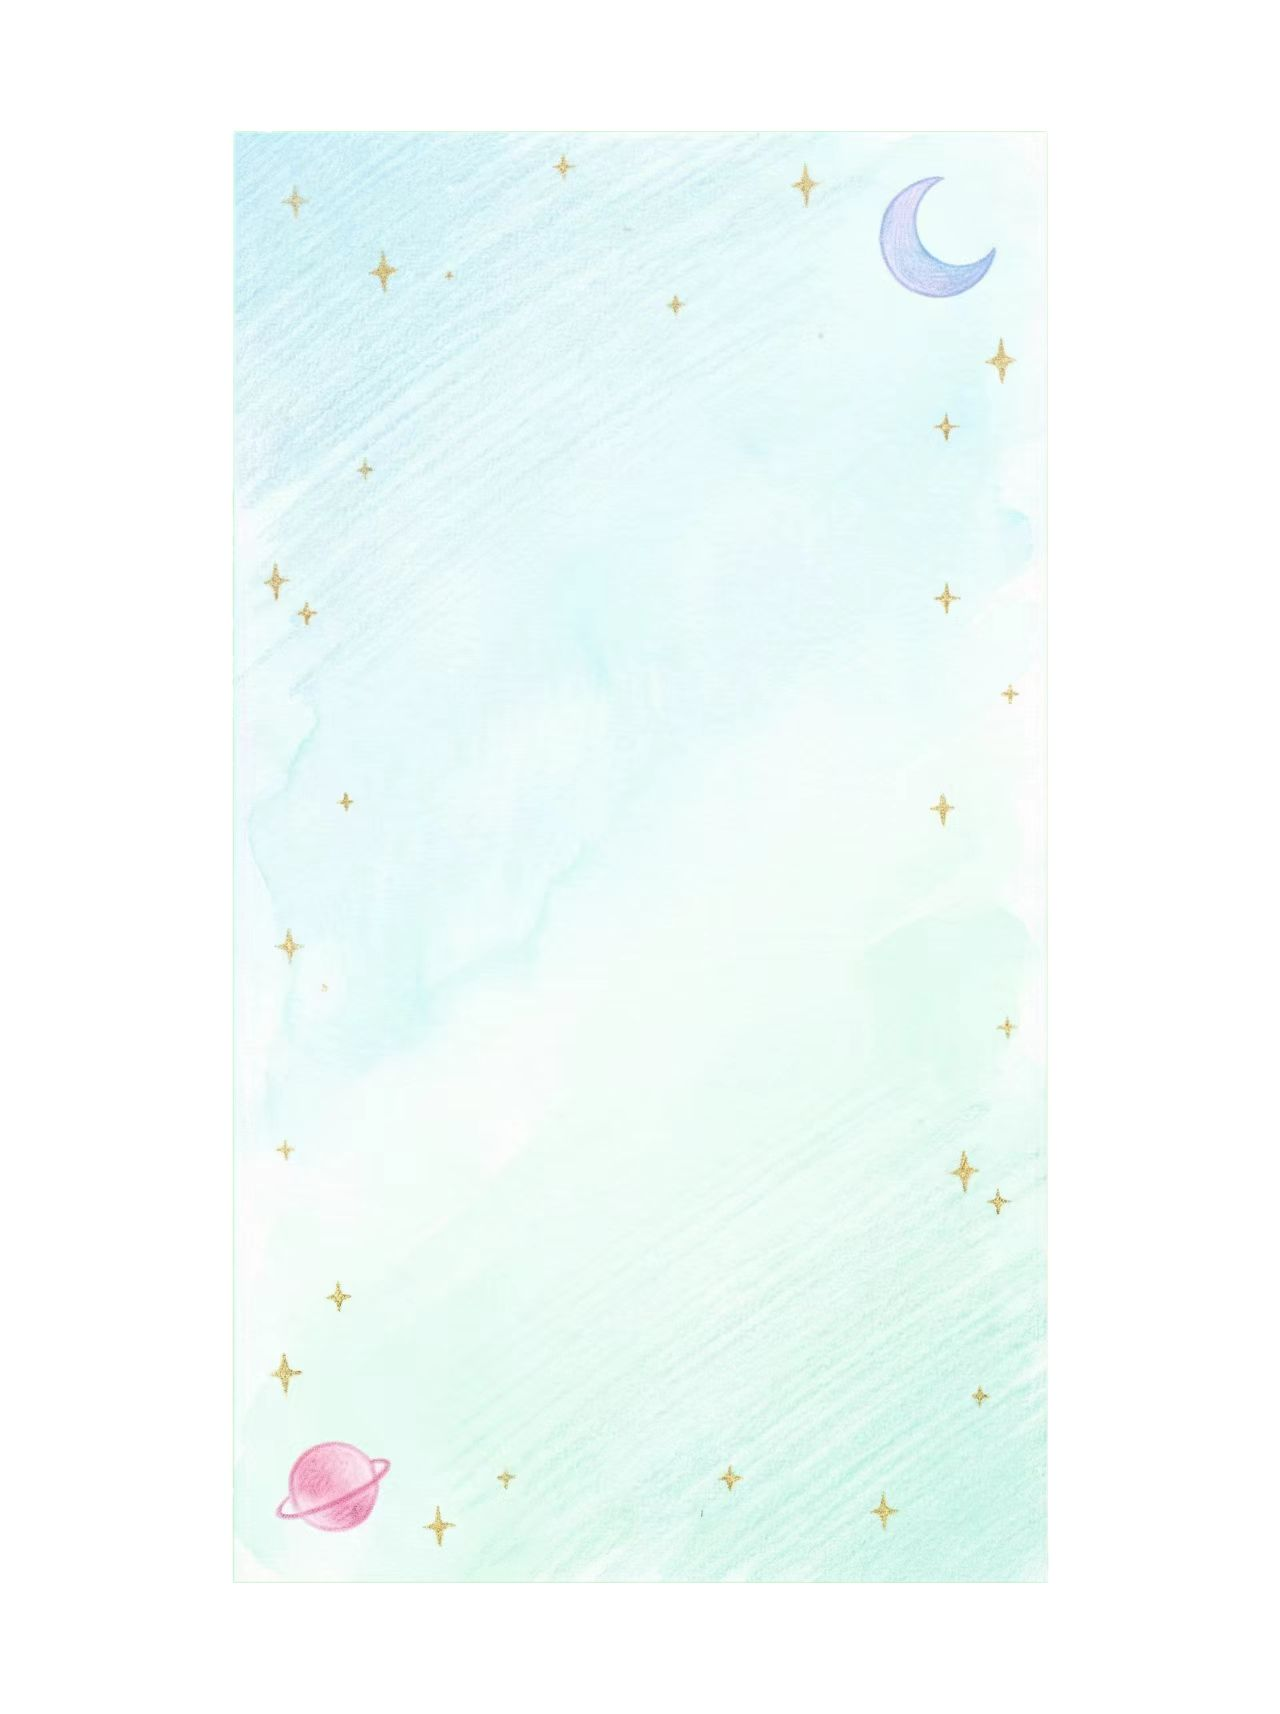
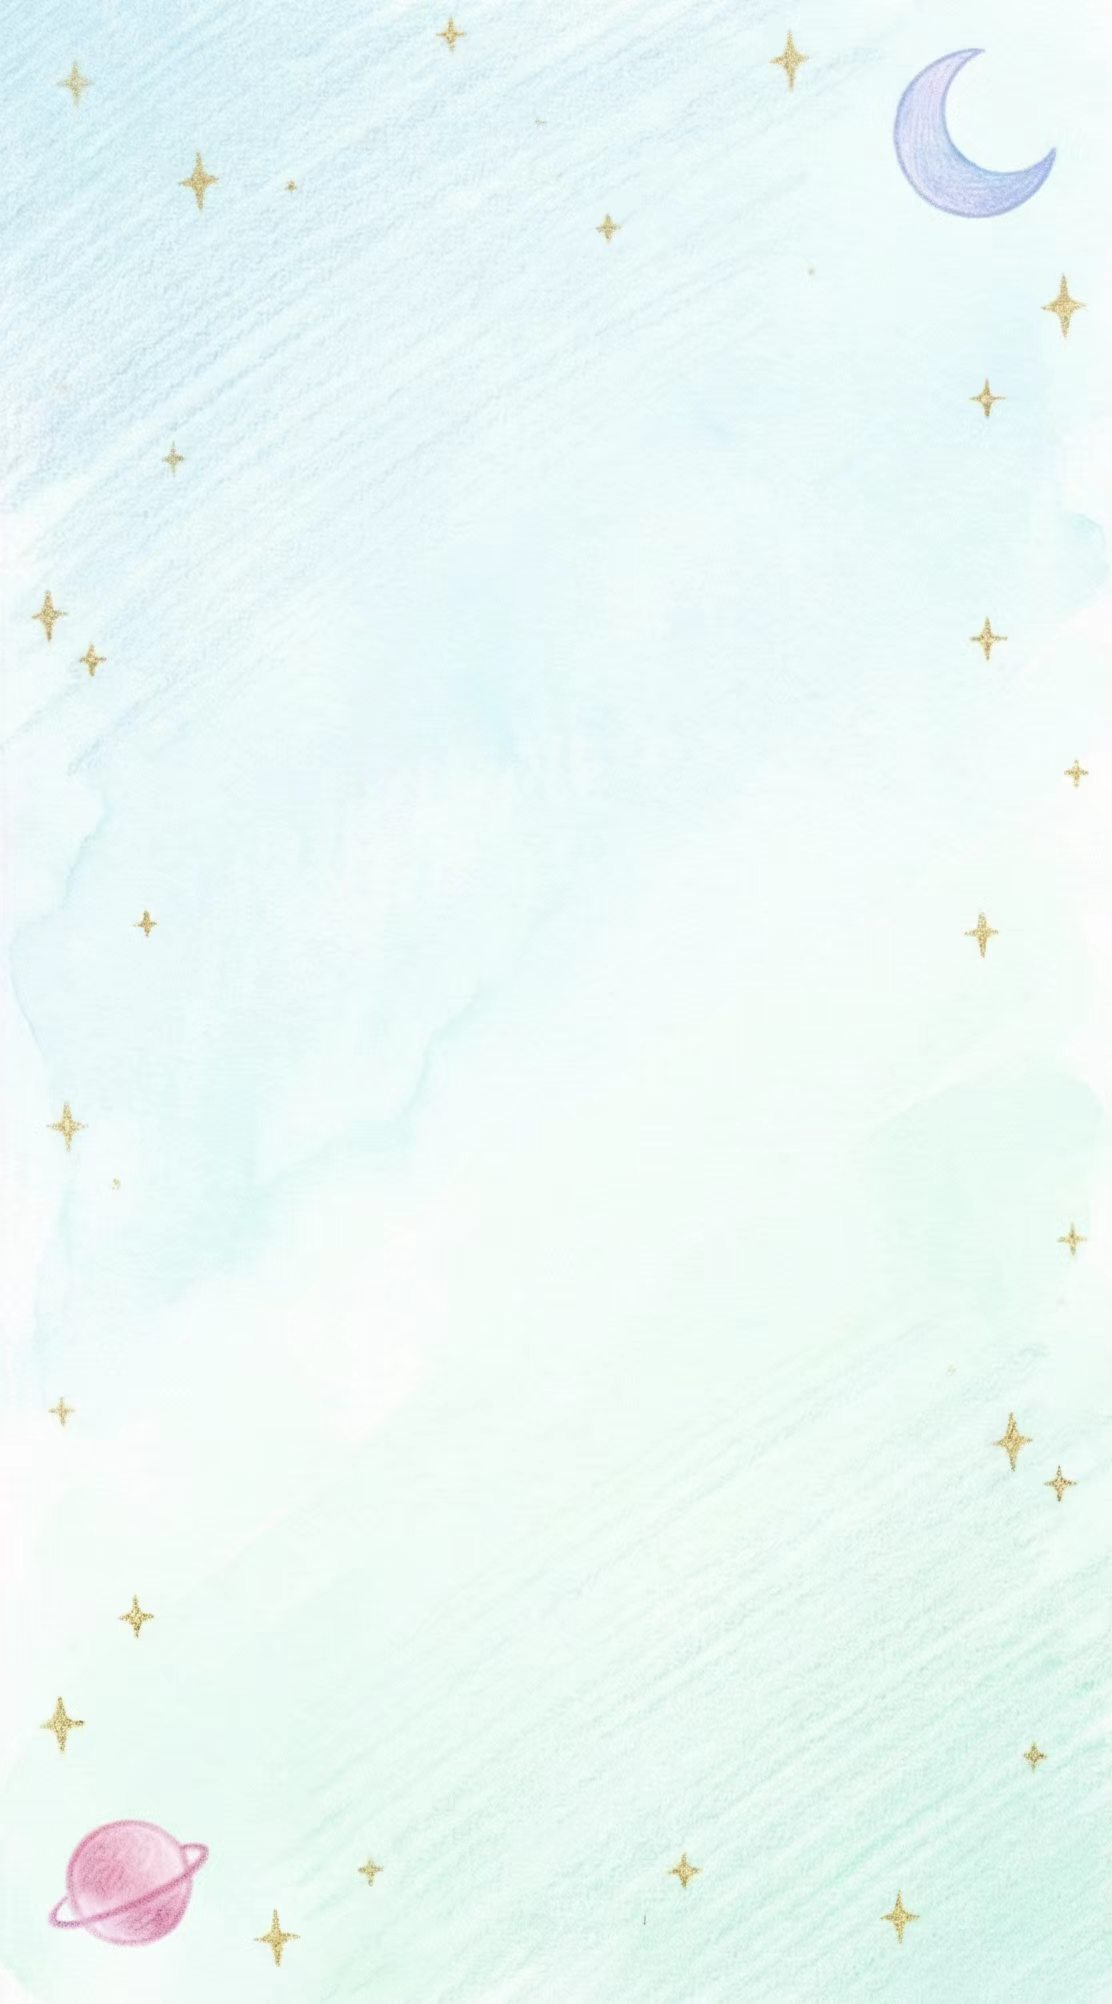
feat: 更新首页背景图片并让背景铺满全屏
- 更新能量、结晶、连续签到、任务统计卡片背景
- 更新快捷入口、知识星球、本周学习、今日任务卡片背景
- 背景图片铺满整个网页

diff --git a/apps/web/src/pages/Home/Home.tsx b/apps/web/src/pages/Home/Home.tsx
@@ -78,6 +78,7 @@ const Home: React.FC = () => {
 
   return (
     <div className="home-page" style={{ backgroundImage: `url(${pageBg})`, backgroundSize: 'cover', backgroundPosition: 'center' }}>
+      <div className="content-wrapper">
       {/* 欢迎区域 */}
       <motion.div
         className="welcome-section"
@@ -341,6 +342,7 @@ const Home: React.FC = () => {
           </motion.div>
         </div>
       )}
+      </div>
     </div>
   );
 };

diff --git a/apps/web/src/pages/Home/Home.css b/apps/web/src/pages/Home/Home.css
@@ -1,13 +1,19 @@
 /* 首页样式 - 网页布局 */
 
 .home-page {
-  max-width: 1200px;
-  margin: 0 auto;
   min-height: 100vh;
+  width: 100%;
+  padding: 20px;
+  box-sizing: border-box;
   background-size: cover;
   background-position: center;
   background-repeat: no-repeat;
   background-attachment: fixed;
+}
+
+.home-page .content-wrapper {
+  max-width: 1200px;
+  margin: 0 auto;
 }
 
 /* 欢迎区域 */
